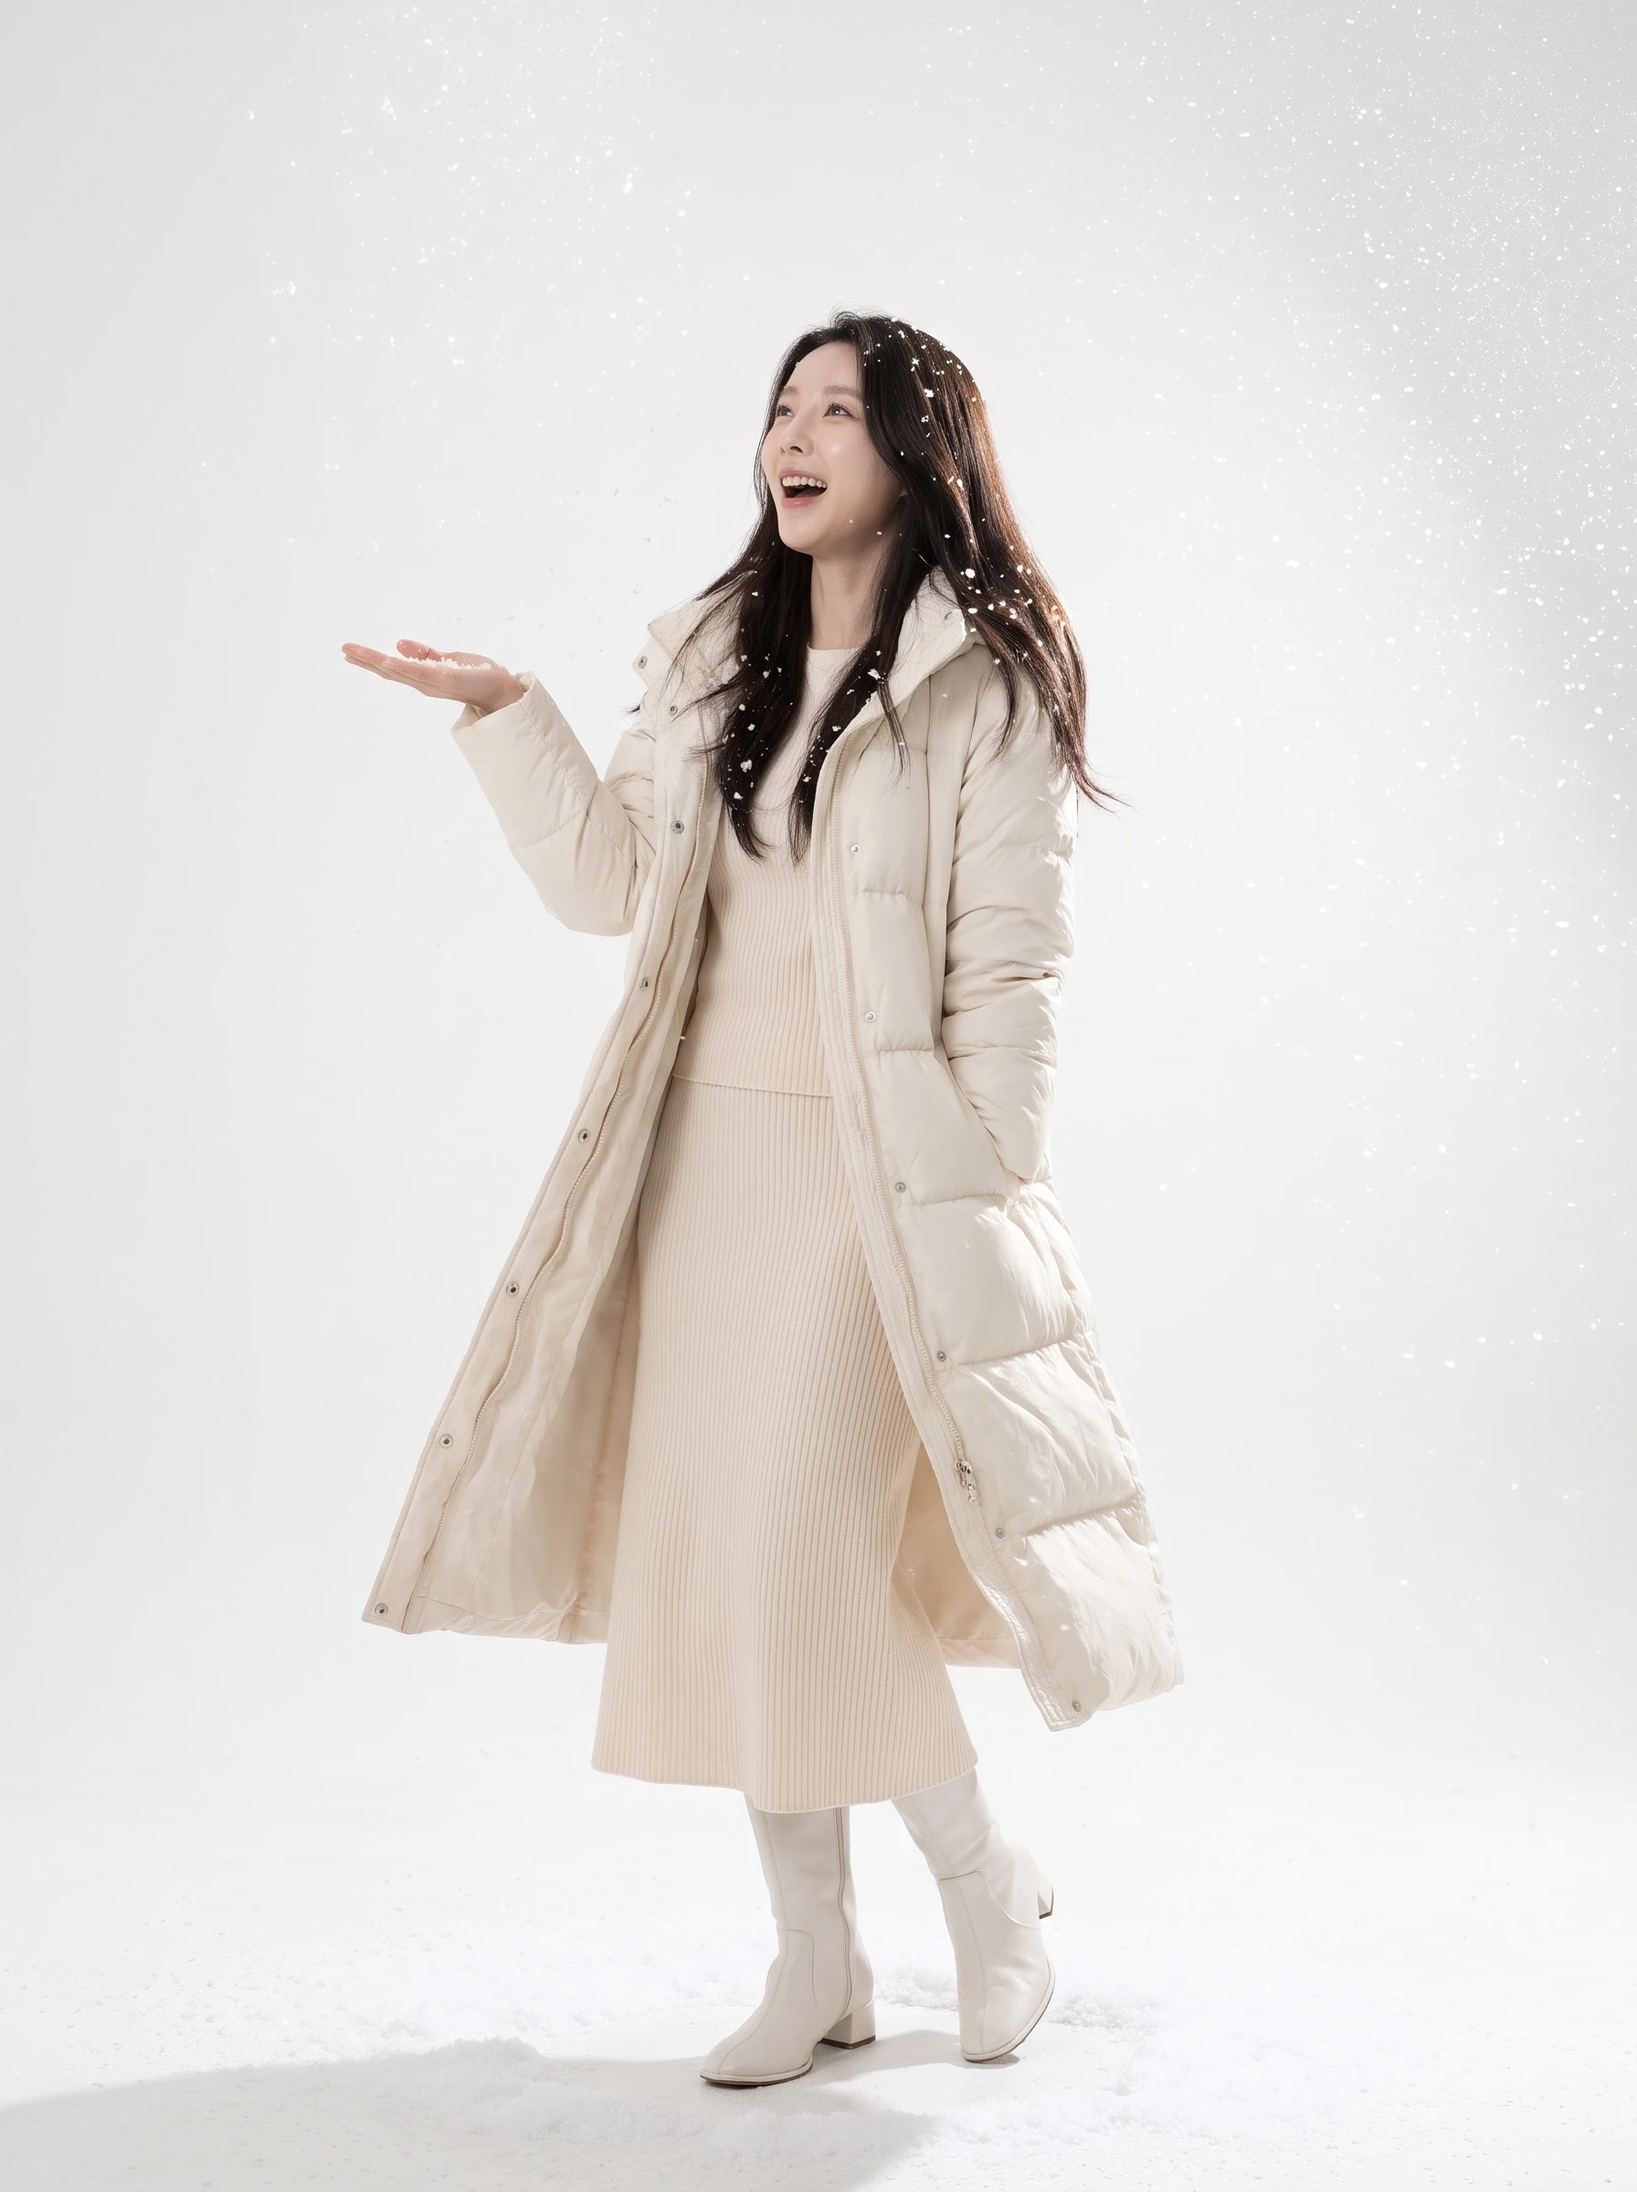
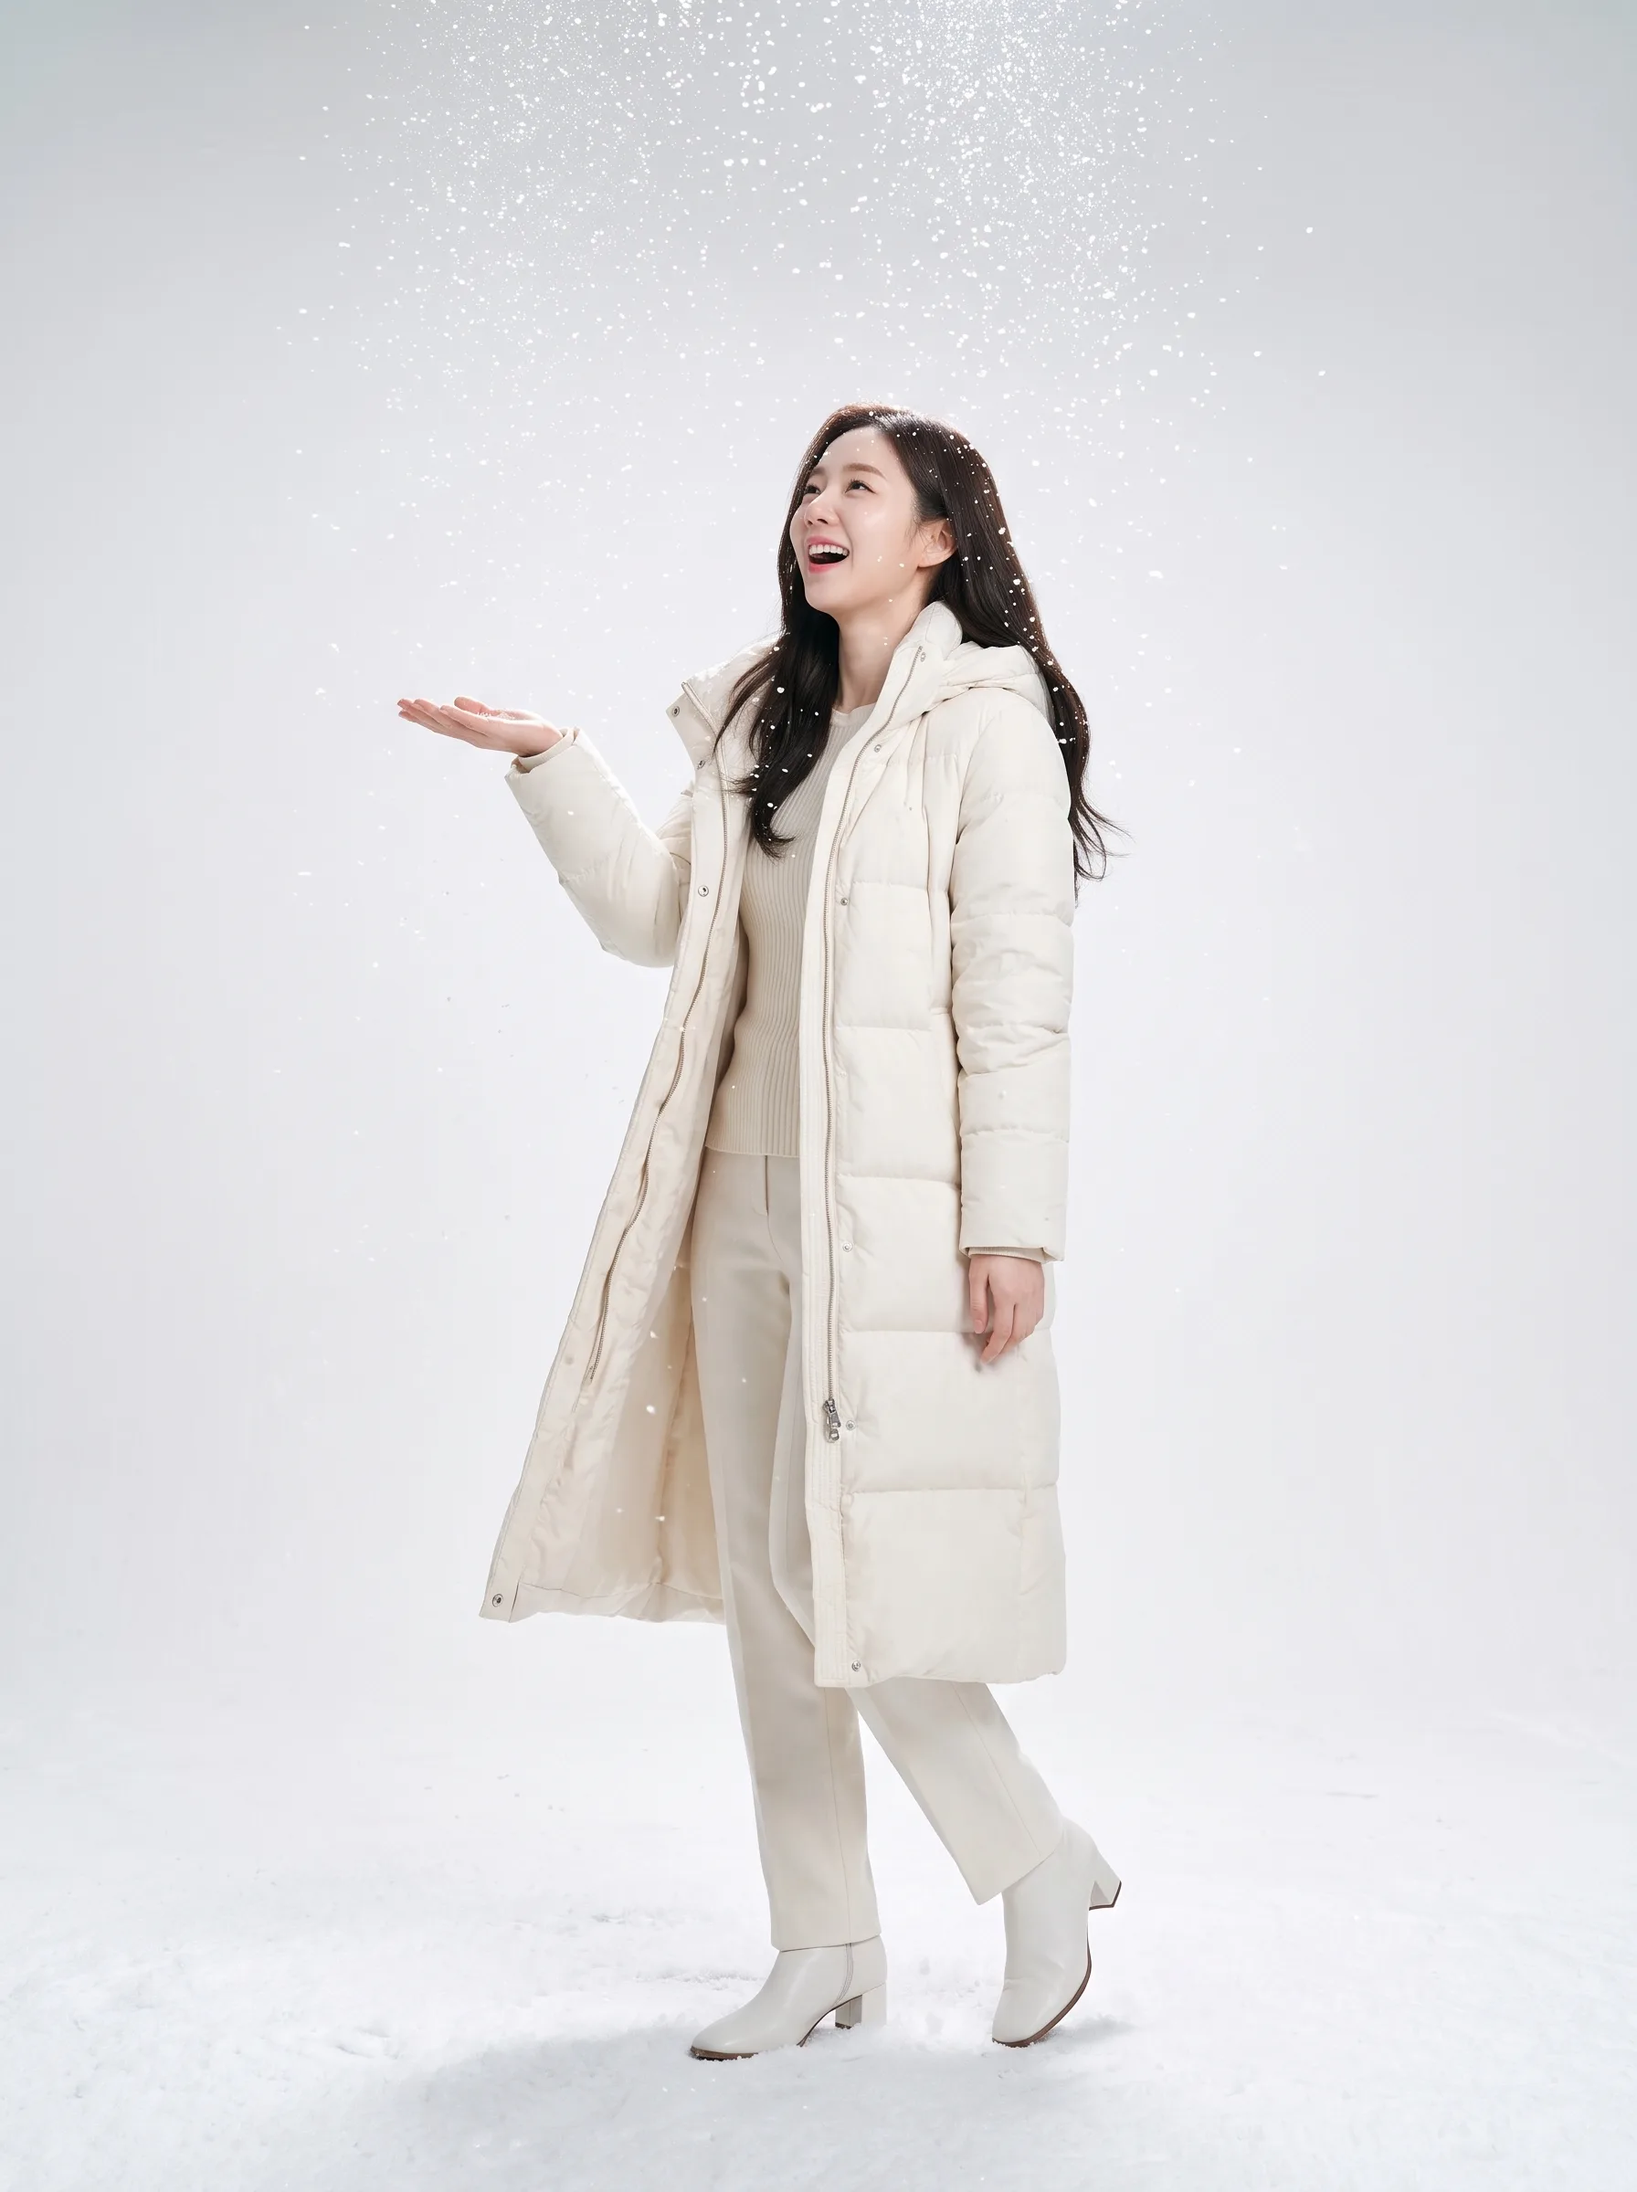
concepts: 스튜디오 프로필 1337 샘플 얼굴 교체 — 위쪽 빛 얼룩 없는 컷(6장 중 1장), 스튜디오 52장 교체 끝, sw v260
Claude-Session: https://claude.ai/code/session_01H2YvAQhUpTna7rrNEqetDc

Changed region(s): [[0.2188, 0.125, 0.7188, 1.0], [0.0, 0.0, 0.4688, 0.0938], [0.0312, 0.9375, 0.2188, 1.0]]

diff --git a/public/sw.js b/public/sw.js
@@ -10,7 +10,7 @@
 // 새 버전 배포 시: 아래 VERSION 만 올리면 됨.
 // ============================================================
 
-const VERSION = "v259";
+const VERSION = "v260";
 const STATIC_CACHE = `rimikimi-static-${VERSION}`;
 const THUMB_CACHE = `rimikimi-thumbs-${VERSION}`;
 const DATA_CACHE = `rimikimi-data-${VERSION}`;
